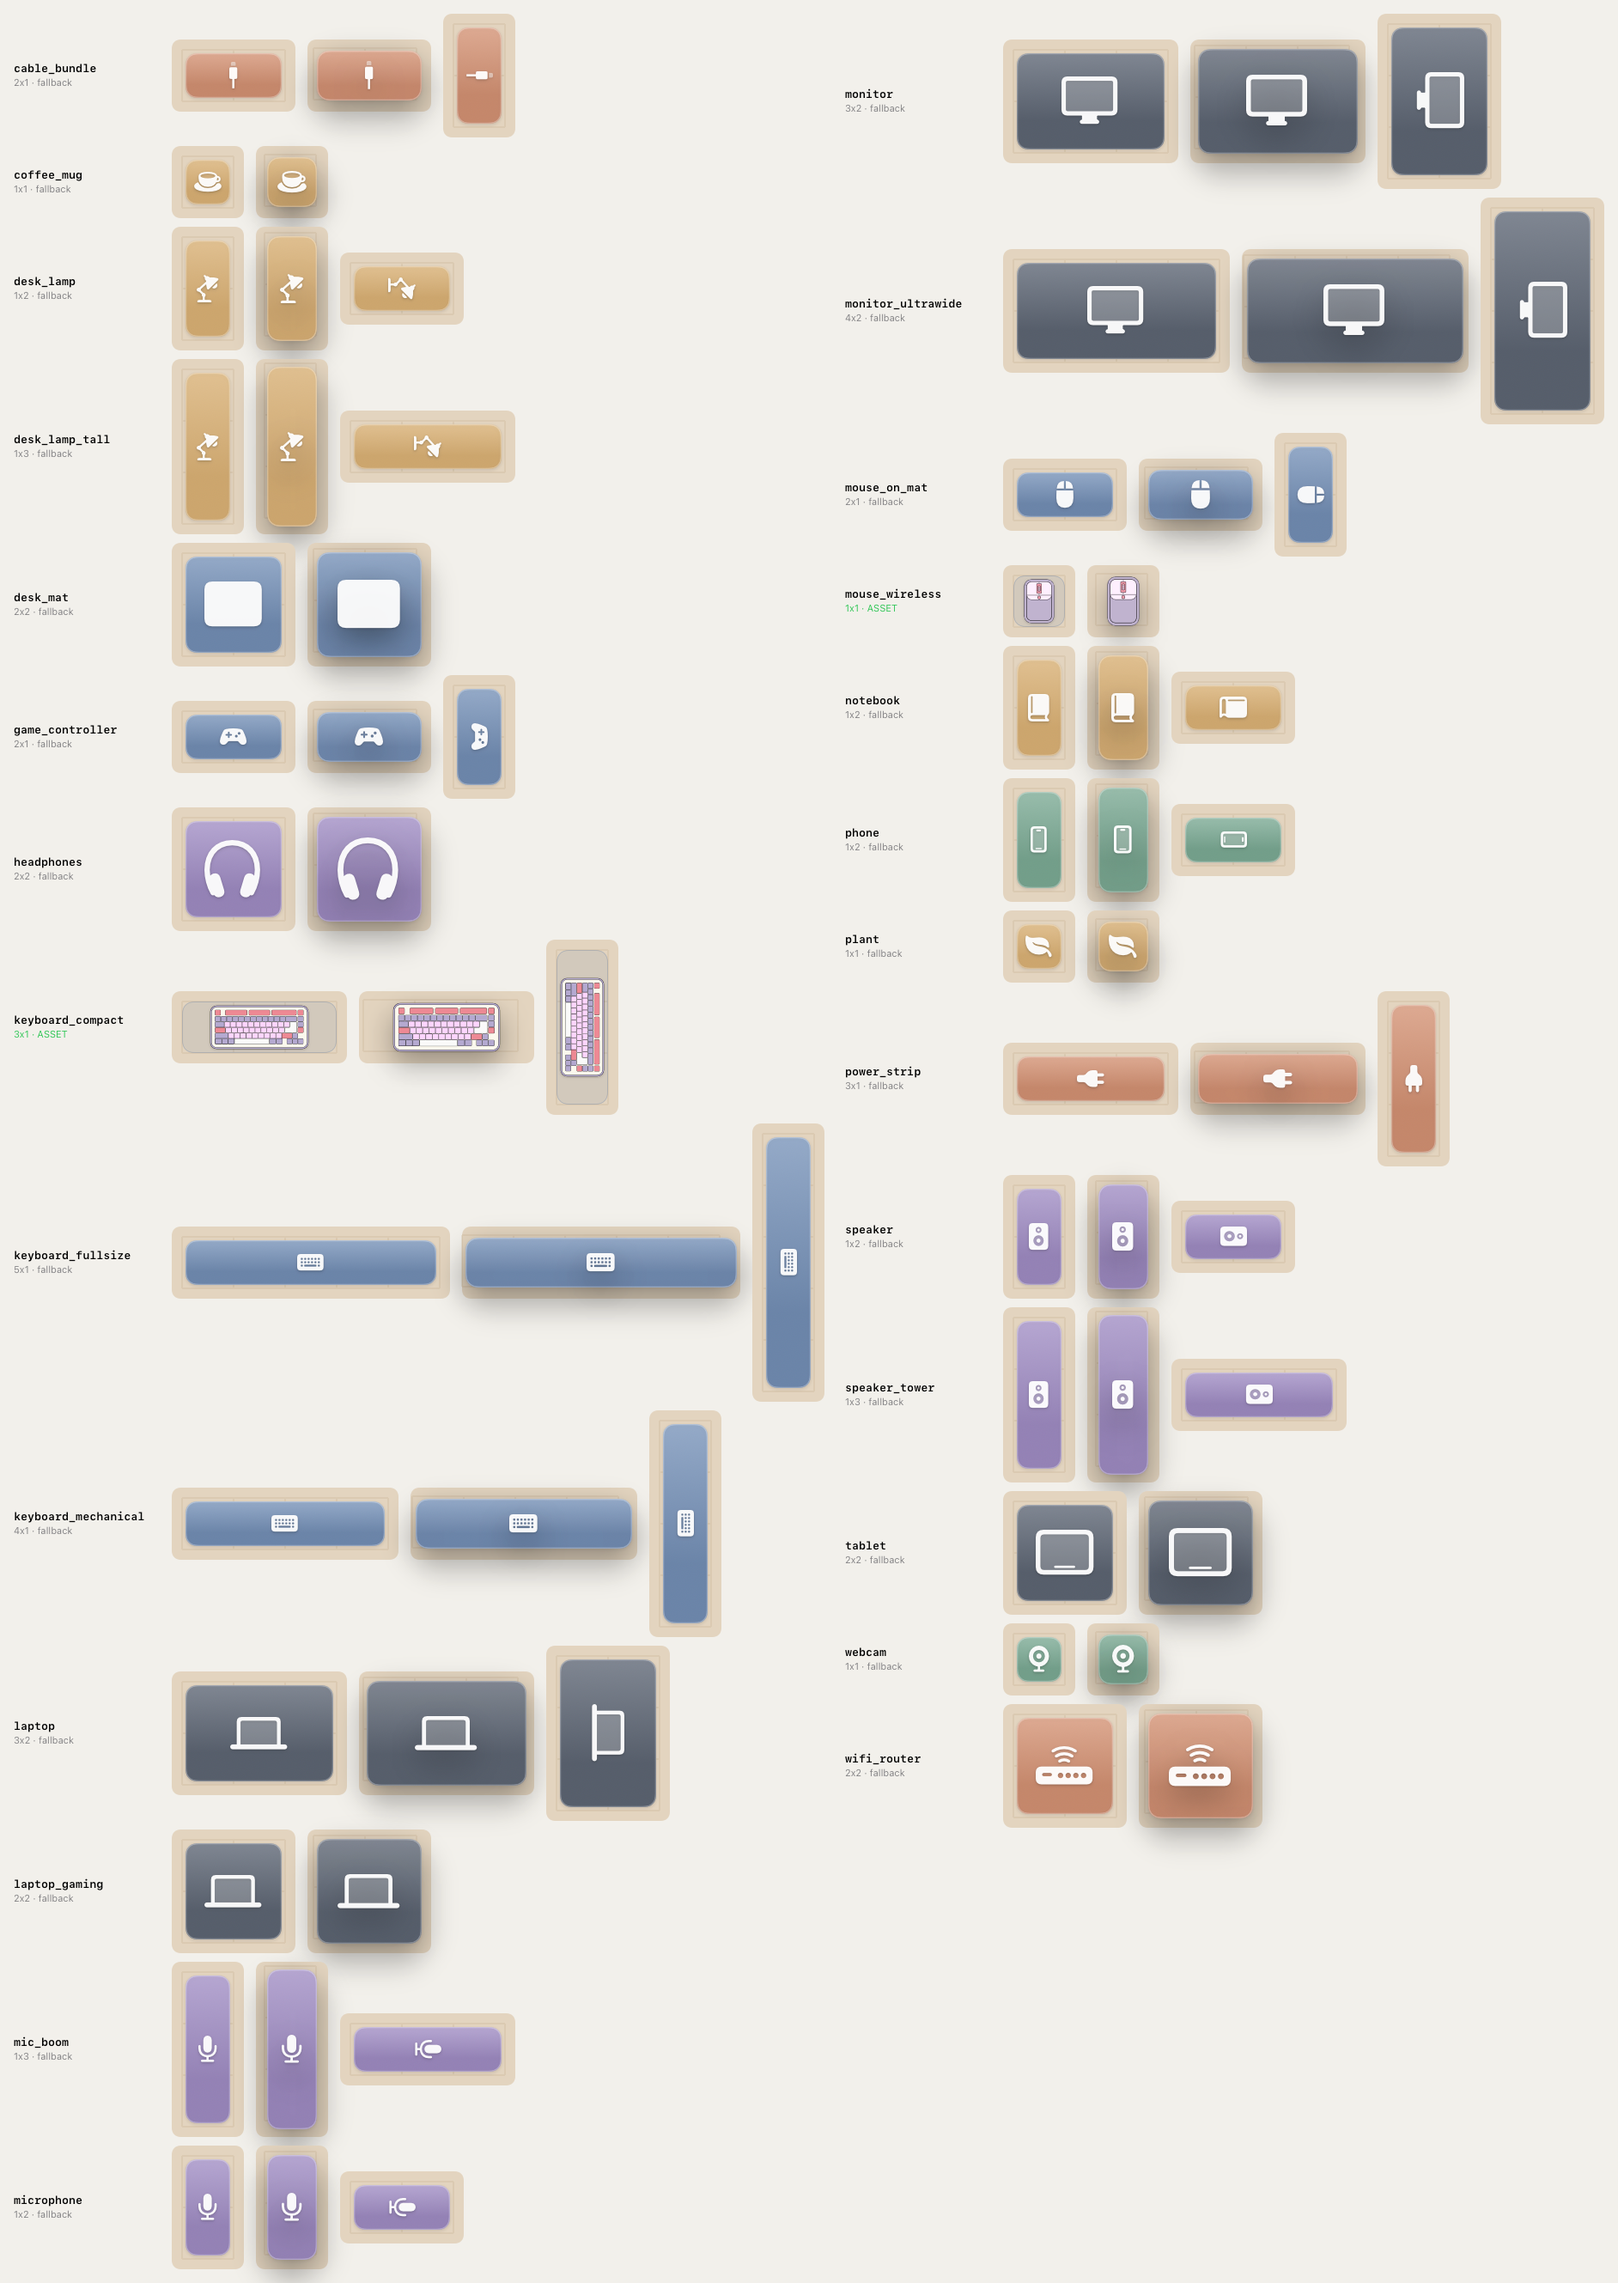
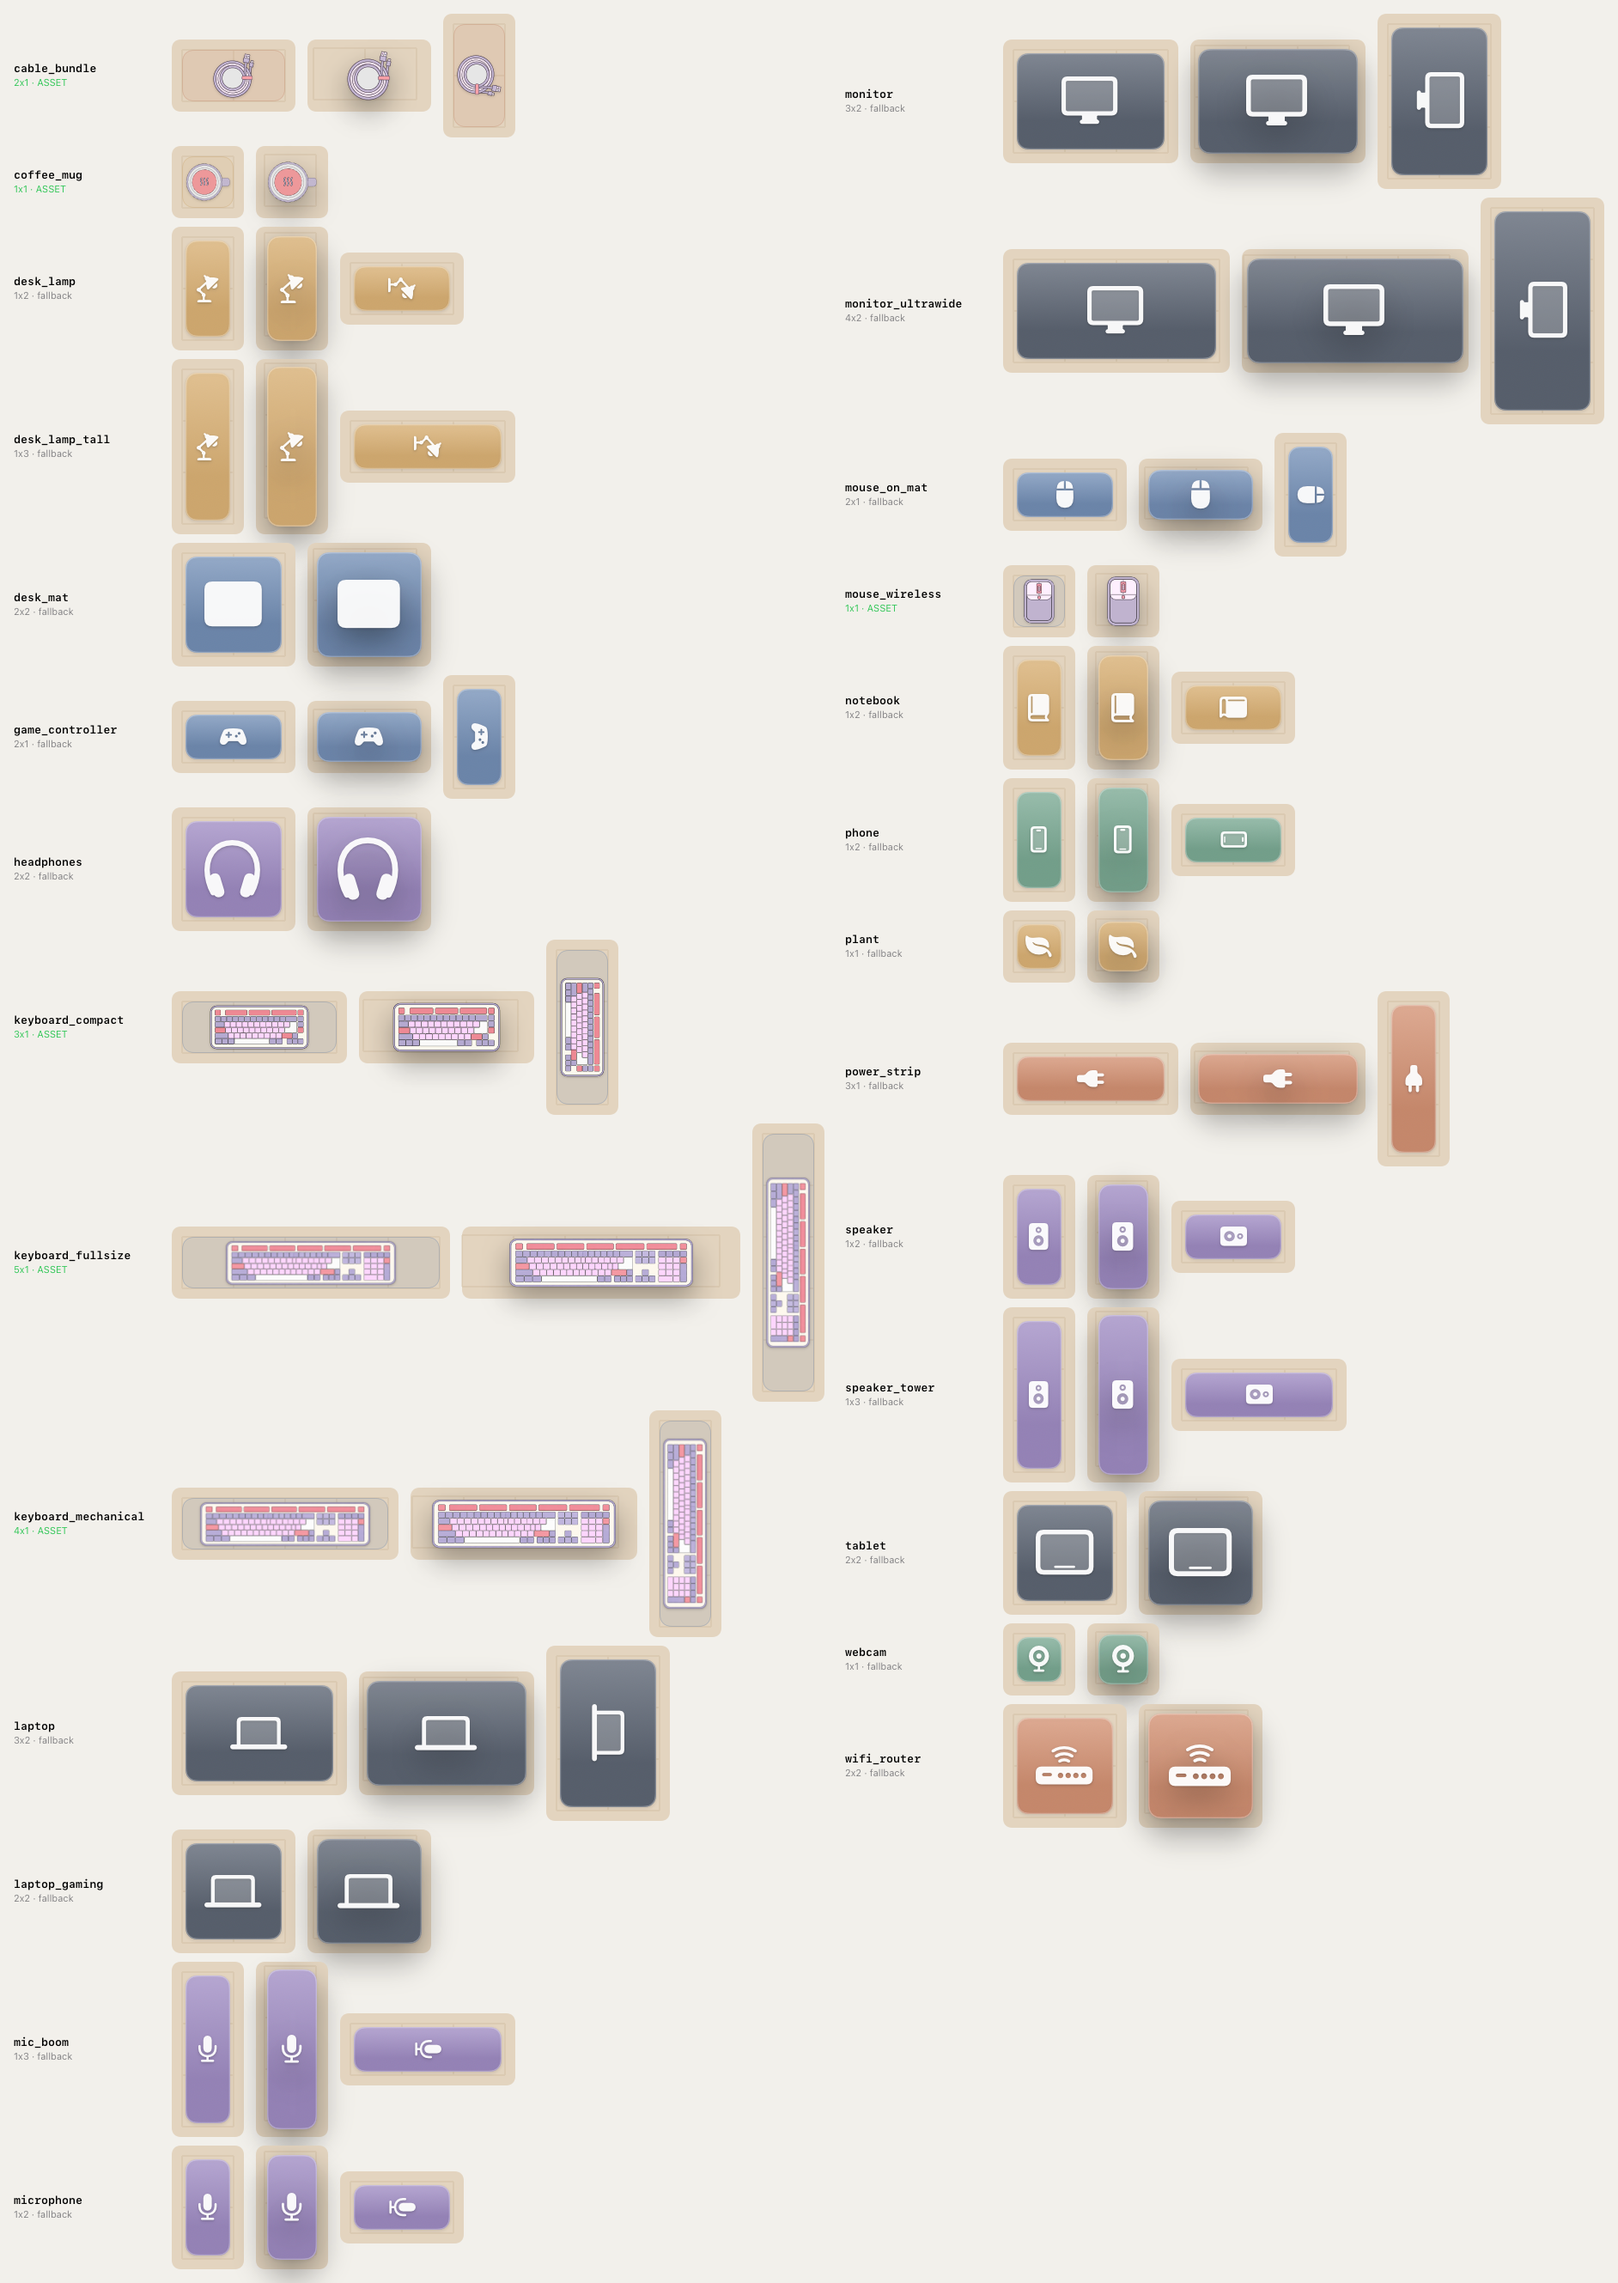
Mac build/test + screenshots (4320def)

Changed region(s): [[0.0924, 0.4996, 0.5234, 0.6245], [0.0924, 0.0, 0.3079, 0.0937], [0.0924, 0.6245, 0.4618, 0.7182]]

diff --git a/PROJECT_NOTES.md b/PROJECT_NOTES.md
@@ -1,6 +1,6 @@
 # Tidy Desk: Tech & Setup — Ghi chú dự án
 
-> Cập nhật: 2026-11-11 · Trạng thái: build OK + 62/63 test pass, 1 skip (ArtPreviewTests, đúng thiết kế) trên Mac ở commit `f5a9d2c` (bộ hình vector + MAC_BUILD). `tools/check_levels.py`: 8/8 OK · `tools/check_assets.py`: 6/27 hình thiết bị (`keyboard_mechanical` OK; `keyboard_compact`, `keyboard_fullsize`, `mouse_wireless`, `coffee_mug`, `cable_bundle` WARN tỉ lệ; còn lại dùng SF Symbol dự phòng). Hình mới sau `11804bc` chưa build. Ảnh: `screenshots/`.
+> Cập nhật: 2026-11-12 · Trạng thái: build OK + 67/68 test pass, 1 skip (ArtPreviewTests, đúng thiết kế) trên Mac ở commit `4320def` (âm thanh theo chất liệu, hiệu ứng sống, BetaConfig mở khóa mọi màn). `tools/check_levels.py`: 8/8 OK · `tools/check_assets.py`: 6/27 hình thiết bị (`keyboard_mechanical` OK; 5 hình WARN tỉ lệ; còn lại dùng SF Symbol dự phòng). Ảnh: `screenshots/`.
 
 ## 1. App này là gì
 Game giải đố "dọn dẹp" (Cozy Tidy / Organization Puzzle) cho iOS 17+, chủ đề **bàn làm việc / góc setup công nghệ**. Mỗi màn bắt đầu với một bàn bừa bộn: vài món đã nằm sẵn sai chỗ trên bàn, các món còn lại ở **ngăn kéo phụ kiện** (Accessory Drawer) phía dưới. Người chơi kéo thả để mọi thứ vừa khít mặt bàn, không đè nhau, không tràn viền. Xếp đủ là qua màn ("Setup Complete!"). Giao diện tiếng Anh, nhắm thị trường toàn cầu.
@@ -44,20 +44,16 @@ Số nước = số lần đặt thành công (đặt món mới, hoặc dời m
 7. Ảnh thật cho thiết bị; thay 6 file WAV tạm bằng âm thanh thu thật (cùng tên, xem README). Thêm Localizable.xcstrings.
 
 ## 5. Kết quả build/test trên Mac
-- **Ngày:** 2026-11-11 · **Commit đã build:** `f5a9d2c` (sửa nằm ở commit ngay sau) · **Xcode:** 26.5 (17F42), iOS Simulator 26.5, iPhone 17. Làm theo `MAC_BUILD.md`.
-- **Build app:** OK, không lỗi, không warning trong code dự án; asset catalog (gồm 2 file `.svg`) không có warning nào.
-- **Test:** 63 test: **62 pass, 0 fail, 1 skip** (`ArtPreviewTests`, chỉ chạy khi bật `TEST_RUNNER_TIDY_SNAPSHOTS=1`). Dòng log "level_7.json: duplicate levelId 1, file skipped" là do `LevelManagerTests` cố tình tạo file hỏng, không phải dữ liệu thật.
-- **Dữ liệu:** `check_levels.py` 8/8 OK. `check_assets.py`: 2/27 hình; `keyboard_compact` WARN (tỉ lệ 2.21:1 so với ô 3:1, hình chỉ phủ ~74% chiều ngang), `mouse_wireless` WARN (0.68:1 so với 1:1, ~68%).
-- **File phải sửa:** chỉ `TidyDeskTests/ArtPreviewTests.swift`:
-  1. Lỗi biên dịch "implicit use of 'self' in closure" ở `ForEach(...) { previewRow($0) }` → đổi thành `self.previewRow($0)`.
-  2. (Sau đó) tấm tổng hợp render ở **1x** (ảnh từng món vẫn 2x) để `screenshots/` nhẹ hơn: `art/` từ ~10.6 MB xuống ~6.3 MB.
-  3. Tấm tổng hợp `_all_light/_all_dark.png` một cột cao ~9560 px ở 2x, vượt giới hạn texture (~8192 px) nên `ImageRenderer` ra ảnh **trắng**, `pngData()` lỗi zlib → test fail. Chia tấm thành **2 cột** (3768×5316 px). Ảnh từng món không đổi.
-- **Ảnh từng hình (`screenshots/art/`):** 27 file + 2 tấm tổng hợp, sáng/tối khác nhau đúng. Hai hình thật rõ nét, không nhòe, không méo; bóng đổ khi nhấc (1.08×) và xoay 90° đúng. Nhưng cả hai **nhỏ trong ô** đúng như WARN: bàn phím chừa trống hai bên, chuột chỉ ~2/3 ô. Nên vẽ lại đúng tỉ lệ ô (384×128, 128×128) như `ASSETS.md`. Món dùng hình thật có nền "dấu chân" xám nhạt, khác hẳn kiểu ô màu của các món SF Symbol. Khi chỉ có 2/27 hình thật thì nhìn hơi lệch tông, nhưng sẽ ổn khi đủ hình.
-- **Ảnh app (`screenshots/app/`):** `menu_light`, `level1_light` (có `keyboard_compact` trong ngăn kéo), `level5_light`, `level5_dark` (có `mouse_wireless`). `-openLevel` chạy đúng. Nhận xét:
-  - ~~Header cắt tên màn ("Streamer Cor…")~~ → **đã sửa** (`DeskGameplayView`): tên màn tối đa 2 dòng, ưu tiên chỗ (`layoutPriority`), pill đồng hồ / số nước `fixedSize`. Đã kiểm tra màn 5 "Streamer Corner" và màn 8 "Gaming Battlestation": hiện đủ 2 dòng.
-  - Trong ngăn kéo, hình thật (bàn phím, chuột) nhỏ hơn hẳn các ô màu bên cạnh, vì ô ngăn kéo nhỏ cộng với hình chưa phủ hết ô.
-  - Ảnh menu: simulator đang có tiến độ (qua màn 1–2) nên menu tự cuộn tới màn 3; phần đầu (tiêu đề, ô tổng kết) nằm dưới thanh trạng thái. Đúng thiết kế "cuộn tới màn đang chơi", không phải lỗi.
-  - Chế độ tối: huy hiệu xoay ↻ trên ô màu hơi chìm nhưng vẫn đọc được.
+- **Ngày:** 2026-11-12 · **Commit đã build:** `4320def` · **Xcode:** 26.5 (17F42), iOS Simulator 26.5, iPhone 17. Làm theo `MAC_BUILD.md`.
+- **Build app:** OK ngay lần đầu, không lỗi, không warning trong code dự án; asset catalog (4 SVG + 2 PNG mới) không có warning. **Không phải sửa file nào.**
+- **Test:** 68 test: **67 pass, 0 fail, 1 skip** (`ArtPreviewTests`, chỉ chạy khi bật `TEST_RUNNER_TIDY_SNAPSHOTS=1`). `ItemTraitsTests` mới pass hết. Dòng log "level_7.json: duplicate levelId 1" là do `LevelManagerTests` cố tình tạo file hỏng.
+- **Dữ liệu:** `check_levels.py` 8/8 OK. `check_assets.py`: 6/27 hình. `keyboard_mechanical` OK; WARN tỉ lệ: `cable_bundle` (0.90:1 vs 2:1, ~45%), `coffee_mug` (~83%), `keyboard_compact` (~74%), `keyboard_fullsize` (~76%), `mouse_wireless` (~68%).
+- **Ảnh từng hình (`screenshots/art/`, ~6.5 MB):** 27 file + 2 tấm tổng hợp. Hình thật rõ, không nhòe/méo, bóng khi nhấc và xoay đúng. `keyboard_mechanical` khít ô 4×1 đẹp nhất. `cable_bundle` (cuộn tròn) chỉ chiếm giữa ô 2×1, trống hai bên; `coffee_mug` và `mouse_wireless` nhỏ trong ô 1×1; `keyboard_fullsize` dùng chung PNG nên ô 5×1 dư hai đầu.
+- **Ảnh app (`screenshots/app/`):** `menu_light`, `level1_light`, `level5_light`, `level5_dark`. Nhận xét:
+  - Màn 5: bàn phím full (5×1) đặt sẵn trên bàn nhìn rõ, có quầng sáng nền RGB dưới bàn phím (hiệu ứng `underglow` mới). Header 2 dòng "Streamer / Corner" hiện đủ.
+  - Ngăn kéo: ly cà phê, cuộn dây, chuột (hình thật) nhỏ hơn hẳn các ô màu SF Symbol bên cạnh.
+  - Menu: mọi màn đều hiện "PLAY" (BetaConfig mở khóa hết) đúng ý. Simulator có tiến độ cũ nên menu tự cuộn tới màn 3; dòng nhắc "Test build · all levels unlocked" ở đầu danh sách bị cuộn khuất trong ảnh.
+  - Âm thanh, hiệu ứng sống (khói, đèn, sóng loa) và vệt sáng khi xong bàn chưa kiểm tra được bằng ảnh tĩnh: cần thử trên máy (TestFlight).
 
 ## 5b. TestFlight (bản thử, mượn team RETALIX USA, INC)
 - App trên App Store Connect: **Test Tidy Desk** (Apple ID 6833522226, SKU `testtidydesk`), bundle ID **`com.powervh.tidydesk.beta`**, team `62SFVG2ZD8` (tài khoản Xcode `vu.huynh@ncr.com`). Bundle ID thật `com.powervh.tidydesk` để dành cho tài khoản riêng (đừng tạo app ASC với nó trong Retalix).
@@ -73,6 +69,7 @@ xcodebuild -exportArchive -archivePath <tmp>/TidyDesk.xcarchive -exportOptionsPl
 - Icon hiện là icon tạm do `tools/generate_icon.py` vẽ (1024×1024, không alpha). Thay icon thật: ghi đè `Assets.xcassets/AppIcon.appiconset/AppIcon.png`.
 
 ## Lịch sử
+- 2026-11-12 (Build Mac `4320def`): build OK không cần sửa gì, 67/68 pass + 1 skip. Chụp lại `screenshots/art/` + `screenshots/app/`.
 - 2026-11-12 (TestFlight, **chưa build**): thêm `BetaConfig.unlockAllLevels = true`: mọi màn chơi được ngay, không cần qua màn trước (`LevelManager.unlockAll`, mặc định false nên test luật mở khóa không đổi; app gán từ `BetaConfig`). Menu hiện dòng nhắc "Test build · all levels unlocked". Tiến độ, sao, kỷ lục vẫn lưu như thường.
 - 2026-11-12 (Tăng cảm giác "đã", **chưa build**): `ItemTraits` suy ra từ tên asset (thứ tự dò: keyboard → headphone → mic → mug/coffee → plant → lamp → màn hình/điện thoại → speaker → router/webcam/controller/power_strip → cable → mat/notebook → mouse → theo nhóm đồ) gồm **chất liệu** (`keys` / `ceramic` / `soft` / `cable` / `device`) và **hiệu ứng sống** (`steam` / `warmLight` / `screenGlow` / `sway` / `soundWaves` / `statusLED` / `underglow`). Âm thanh: mỗi chất liệu một tiếng đặt đồ riêng (`snap_keys`, `snap_ceramic`, `snap_soft`, `snap_cable`; đồ cứng giữ `snap`), haptic theo chất liệu (mềm: soft impact), đồ điện tử phát thêm `power_on` sau 220 ms; xếp xong bàn phát `lights_on` (hợp âm ấm + tiếng gió) trước `complete`. `GameFeedback.snapped()` đổi thành `snapped(_ traits:)`, thêm `lightsOn()`. Hình: `ItemLifeView` 2 lớp (dưới đồ: vầng sáng đèn, màn hình sáng lên có nháy, đèn nền RGB dưới bàn phím; trên đồ: khói cà phê, vòng sóng loa, đèn LED trạng thái nhấp nháy), cây đung đưa (`ItemSwayEffect`); hiệu ứng hiện dần 200 ms sau khi đặt, tắt khi đang kéo, sáng hơn khi xong bàn, tôn trọng Reduce Motion. Khoảnh khắc trước/sau: vệt sáng ấm quét chéo qua bàn (`LightSweepEffect`), quầng sáng ấm lan sau bàn, thẻ Setup Complete hiện sau 1.5 s (trước là 0.9 s). Test mới: `ItemTraitsTests` (ánh xạ tên, `headphones`/`microphone` không bị coi là điện thoại, dự phòng theo nhóm, món nào cũng có file tiếng đặt đồ), kiểm tra ly cà phê dùng tiếng ceramic trong test kéo thả.
 - 2026-11-11 (Thêm 4 hình, **chưa build**): `coffee_mug` (SVG, ly nhìn từ trên), `cable_bundle` (SVG, cuộn dây tròn, chỉ phủ khoảng 45% ô 2×1, nên vẽ lại dạng nằm ngang), `keyboard_mechanical` và `keyboard_fullsize` (cùng một PNG bàn phím full 1656×438, tỉ lệ 3.78:1: khít ô 4×1; ô 5×1 phủ khoảng 76%). `check_assets.py --import` giờ xử lý cả PNG (cần Pillow): bỏ nền đục bằng flood fill từ mép ảnh, làm mềm viền, cắt sát hình, cảnh báo tỉ lệ và độ phân giải thấp; bảng tình trạng kiểm tra tỉ lệ cả với PNG.
